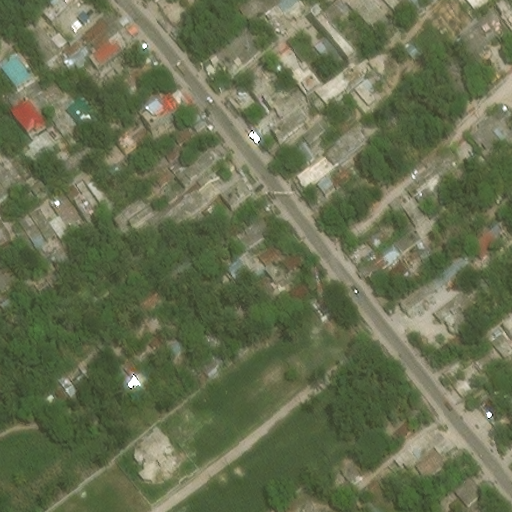
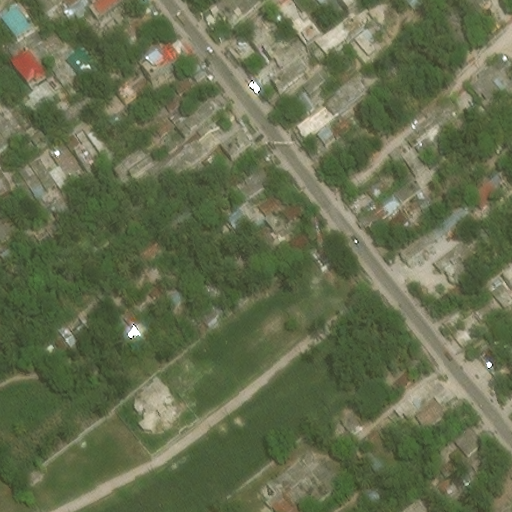
cropping images to clear non-overlapping tiles

diff --git a/disaster_detection/backend/local_crop.py b/disaster_detection/backend/local_crop.py
@@ -7,7 +7,7 @@ logging.basicConfig(level=logging.INFO)
 logger = logging.getLogger()
 
 TILE_SIZE = 512
-OVERLAP   = 50
+OVERLAP   = 0
 
 PRE_DISASTER_DIR  = "pre-disaster-images"
 POST_DISASTER_DIR = "post-disaster-images"
